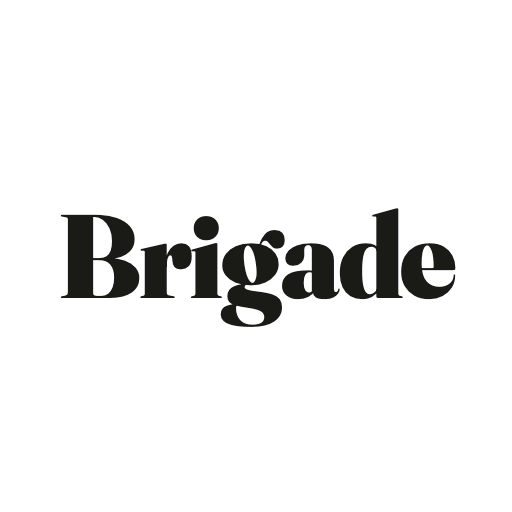
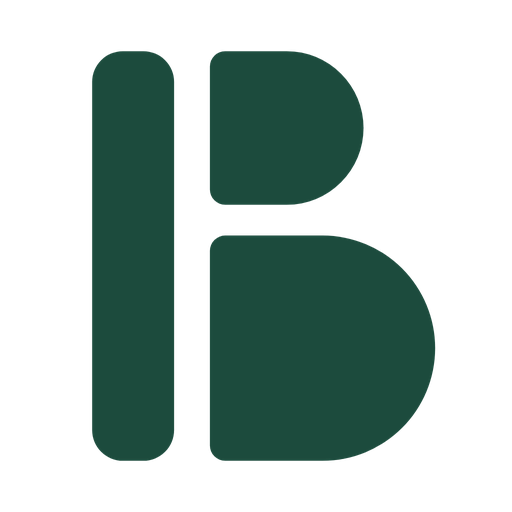
Add Brigade B-mark assets and wire them into nav chrome.
Replace the low-contrast wordmark favicon with the forest B mark, keep color variants under public/brand, and pair the icon with Fraunces text in headers.

diff --git a/apps/web/src/components/brand/brand-mark.tsx b/apps/web/src/components/brand/brand-mark.tsx
@@ -1,0 +1,79 @@
+import Image from 'next/image';
+import Link from 'next/link';
+import { cn } from '@/lib/utils';
+
+/** Icon-only B mark variants — colors match `tokens.css` brand palette. */
+export const BRAND_MARK = {
+  cream: '/brand/brigade-B-cream-transparent.png',
+  forest: '/brand/brigade-B-forest-transparent.png',
+  gold: '/brand/brigade-B-gold-transparent.png',
+  ink: '/brand/brigade-B-ink-transparent.png',
+  rust: '/brand/brigade-B-rust-transparent.png',
+  white: '/brand/brigade-B-white-transparent.png',
+} as const;
+
+export type BrandMarkVariant = keyof typeof BRAND_MARK;
+
+type BrandMarkProps = {
+  variant?: BrandMarkVariant;
+  /** CSS px; rendered square. */
+  size?: number;
+  className?: string;
+  priority?: boolean;
+};
+
+/** Stylized B mark. Pair with Fraunces “Brigade” text — this asset is icon-only. */
+export function BrandMark({
+  variant = 'forest',
+  size = 28,
+  className,
+  priority = false,
+}: BrandMarkProps) {
+  return (
+    <Image
+      src={BRAND_MARK[variant]}
+      alt=""
+      width={size}
+      height={size}
+      priority={priority}
+      className={cn('shrink-0 select-none', className)}
+    />
+  );
+}
+
+type BrandLinkProps = {
+  href?: string;
+  /** Light surfaces → forest; dark surfaces → cream or white. */
+  mark?: BrandMarkVariant;
+  markSize?: number;
+  className?: string;
+  /** Extra classes for the Fraunces wordmark span. */
+  wordmarkClassName?: string;
+  priority?: boolean;
+};
+
+/**
+ * Home link: B mark + Fraunces “Brigade”. Use in headers / auth chrome.
+ */
+export function BrandLink({
+  href = '/',
+  mark = 'forest',
+  markSize = 28,
+  className,
+  wordmarkClassName,
+  priority = false,
+}: BrandLinkProps) {
+  return (
+    <Link
+      href={href}
+      aria-label="Brigade home"
+      className={cn(
+        'inline-flex min-h-11 shrink-0 items-center gap-2 font-display font-black tracking-tight text-[var(--brand-ink)]',
+        className,
+      )}
+    >
+      <BrandMark variant={mark} size={markSize} priority={priority} />
+      <span className={cn('leading-none', wordmarkClassName)}>Brigade</span>
+    </Link>
+  );
+}

diff --git a/apps/web/src/app/onboarding/layout.tsx b/apps/web/src/app/onboarding/layout.tsx
@@ -1,6 +1,6 @@
-import Link from "next/link";
 import { Suspense } from "react";
 import { WelcomeBanner } from "@/components/auth/welcome-banner";
+import { BrandLink } from "@/components/brand/brand-mark";
 import { SoundToggle } from "@/components/onboarding/sound-toggle";
 
 /**
@@ -18,15 +18,11 @@ export default function OnboardingLayout({
   return (
     <div className="min-h-dvh bg-white text-ink">
       <header className="flex h-14 items-center justify-between border-b border-neutral-100 px-4">
-        <Link
-          href="/"
-          // -mx-2 px-2: the wordmark is 28px tall, and the only way out of the
-          // corridor should not be the one control on the screen too small to
-          // hit with a thumb. Padding gives it a 44px target without moving it.
-          className="font-display -mx-2 flex min-h-11 items-center px-2 text-xl font-black tracking-tight text-ink"
-        >
-          Brigade
-        </Link>
+        {/* -mx-2 px-2: keep a 44px thumb target without shifting the mark. */}
+        <BrandLink
+          markSize={24}
+          className="-mx-2 px-2 text-xl text-ink"
+        />
         <SoundToggle />
       </header>
       <Suspense fallback={null}>

diff --git a/apps/web/src/components/layout/marketing-header.tsx b/apps/web/src/components/layout/marketing-header.tsx
@@ -3,6 +3,7 @@
 import { useEffect, useState } from 'react';
 import Link from 'next/link';
 import { useAuth } from '@/components/auth/auth-provider';
+import { BrandLink } from '@/components/brand/brand-mark';
 import { AccountMenuItems } from '@/components/layout/app-nav';
 import { MobileTabBar } from '@/components/layout/mobile-tab-bar';
 import { useAppUser } from '@/components/layout/app-shell';
@@ -45,13 +46,11 @@ export function MarketingHeader() {
         className={cn('brigade-glass-nav', scrolled && 'brigade-glass-nav-scrolled')}
       >
         <div className="brigade-glass-nav-inner">
-          <Link
-            href="/"
-            aria-label="Brigade home"
-            className="font-display text-[22px] font-black tracking-[-0.02em] text-[var(--brand-ink)]"
-          >
-            Brigade
-          </Link>
+          <BrandLink
+            priority
+            markSize={26}
+            className="text-[22px] tracking-[-0.02em]"
+          />
 
           <div className="ml-auto flex items-center gap-1.5 sm:gap-2.5">
             <Link

diff --git a/apps/web/src/app/layout.tsx b/apps/web/src/app/layout.tsx
@@ -32,8 +32,33 @@ export const metadata: Metadata = {
   description:
     "Mentorship for chefs moving into private service. Learn from private chefs who have already done it.",
   icons: {
-    icon: [{ url: "/brigade-logo-512.png", sizes: "512x512", type: "image/png" }],
-    apple: [{ url: "/brigade-logo-512.png", sizes: "512x512", type: "image/png" }],
+    icon: [
+      {
+        url: "/brand/brigade-B-forest-transparent.png",
+        sizes: "512x512",
+        type: "image/png",
+      },
+    ],
+    apple: [
+      {
+        url: "/brand/brigade-B-forest-transparent.png",
+        sizes: "512x512",
+        type: "image/png",
+      },
+    ],
+  },
+  openGraph: {
+    title: "Brigade — Private Chef Mentorship",
+    description:
+      "Mentorship for chefs moving into private service. Learn from private chefs who have already done it.",
+    images: [
+      {
+        url: "/brand/brigade-B-forest-transparent.png",
+        width: 512,
+        height: 512,
+        alt: "Brigade",
+      },
+    ],
   },
 };
 

diff --git a/apps/web/src/app/login/page.tsx b/apps/web/src/app/login/page.tsx
@@ -1,19 +1,14 @@
 import { LoginForm } from "@/components/auth/login-form";
 import { LoginErrorBanner } from "@/components/auth/login-error-banner";
+import { BrandLink } from "@/components/brand/brand-mark";
 import { Card, CardDescription, CardHeader, CardTitle } from "@/components/ui/card";
-import Link from "next/link";
 import { Suspense } from "react";
 
 export default function LoginPage() {
   return (
     <div className="min-h-dvh bg-[var(--brand-paper-warm)] text-ink">
       <header className="flex h-12 items-center border-b border-[var(--brand-hairline)] bg-white/80 px-4 backdrop-blur-sm">
-        <Link
-          href="/"
-          className="font-display text-xl font-black tracking-tight text-[var(--brand-ink)]"
-        >
-          Brigade
-        </Link>
+        <BrandLink markSize={24} className="text-xl" />
       </header>
       <div className="mx-auto flex min-h-[calc(100dvh-3rem)] max-w-md items-center px-4 py-8">
         <Card className="w-full border-[var(--brand-hairline)] shadow-none">

diff --git a/apps/web/src/app/signup/page.tsx b/apps/web/src/app/signup/page.tsx
@@ -1,18 +1,13 @@
 import { SignupForm } from "@/components/auth/signup-form";
+import { BrandLink } from "@/components/brand/brand-mark";
 import { Card, CardDescription, CardHeader, CardTitle } from "@/components/ui/card";
-import Link from "next/link";
 import { Suspense } from "react";
 
 export default function SignupPage() {
   return (
     <div className="min-h-dvh bg-[var(--brand-paper-warm)] text-ink">
       <header className="flex h-12 items-center border-b border-[var(--brand-hairline)] bg-white/80 px-4 backdrop-blur-sm">
-        <Link
-          href="/"
-          className="font-display text-xl font-black tracking-tight text-[var(--brand-ink)]"
-        >
-          Brigade
-        </Link>
+        <BrandLink markSize={24} className="text-xl" />
       </header>
       <div className="mx-auto flex min-h-[calc(100dvh-3rem)] max-w-md items-center px-4 py-8">
         <Card className="w-full border-[var(--brand-hairline)] shadow-none">

diff --git a/apps/web/src/components/layout/app-nav.tsx b/apps/web/src/components/layout/app-nav.tsx
@@ -14,6 +14,7 @@ import {
   User,
 } from 'lucide-react';
 import { useAuth } from '@/components/auth/auth-provider';
+import { BrandLink } from '@/components/brand/brand-mark';
 import { Avatar, AvatarFallback, AvatarImage } from '@/components/ui/avatar';
 import { Button } from '@/components/ui/button';
 import {
@@ -132,12 +133,11 @@ export function AppNav({ user }: AppNavProps) {
       )}
     >
       <div className="mx-auto flex h-12 max-w-[1128px] items-center gap-2 px-3 sm:gap-3 sm:px-4">
-        <Link
+        <BrandLink
           href="/mentors"
-          className="flex min-h-11 shrink-0 items-center font-display text-xl font-black tracking-tight text-ink"
-        >
-          Brigade
-        </Link>
+          markSize={24}
+          className="text-xl text-ink"
+        />
 
         <div className="hidden min-w-0 flex-1 sm:block sm:max-w-[220px]">
           <div className="relative">

diff --git a/apps/web/src/components/layout/public-nav.tsx b/apps/web/src/components/layout/public-nav.tsx
@@ -1,25 +1,23 @@
 'use client';
 
 import Link from 'next/link';
+import { BrandLink } from '@/components/brand/brand-mark';
 
 type PublicNavProps = {
   showAuth?: boolean;
 };
 
 /**
- * Marketplace header — white bar, wordmark, clear next actions.
+ * Marketplace header — white bar, mark + wordmark, clear next actions.
  */
 export function PublicNav({ showAuth = true }: PublicNavProps) {
   return (
     <header className="mk-header w-full">
       <div className="mx-auto flex h-full max-w-[1320px] items-center gap-4 px-5 md:px-8">
-        <Link
-          href="/"
-          aria-label="Brigade home"
+        <BrandLink
+          markSize={26}
           className="text-[22px] font-bold tracking-[-0.02em] text-[var(--mk-text)]"
-        >
-          Brigade
-        </Link>
+        />
 
         {showAuth && (
           <div className="ml-auto flex items-center gap-2 md:gap-3">

diff --git a/apps/web/src/app/book/page.tsx b/apps/web/src/app/book/page.tsx
@@ -1,9 +1,9 @@
 "use client";
 
 import { useState } from "react";
-import Link from "next/link";
 import { useSearchParams } from "next/navigation";
 import { Suspense } from "react";
+import { BrandLink } from "@/components/brand/brand-mark";
 import { BOOK_A_CALL } from "@/lib/book-a-call";
 import { formatMoney } from "@/lib/mentorship/pricing";
 
@@ -34,9 +34,7 @@ function BookCallInner() {
   return (
     <div className="min-h-dvh bg-[var(--brand-paper-warm)] text-[var(--brand-ink)]">
       <header className="flex h-14 items-center border-b border-black/8 px-5">
-        <Link href="/" className="font-display text-xl font-black tracking-tight">
-          Brigade
-        </Link>
+        <BrandLink markSize={24} className="text-xl" />
       </header>
 
       <main className="mx-auto max-w-lg px-5 py-16 text-center">

diff --git a/apps/web/src/app/book/thanks/page.tsx b/apps/web/src/app/book/thanks/page.tsx
@@ -1,12 +1,11 @@
 import Link from "next/link";
+import { BrandLink } from "@/components/brand/brand-mark";
 
 export default function BookThanksPage() {
   return (
     <div className="min-h-dvh bg-[var(--brand-paper-warm)] text-[var(--brand-ink)]">
       <header className="flex h-14 items-center border-b border-black/8 px-5">
-        <Link href="/" className="font-display text-xl font-black tracking-tight">
-          Brigade
-        </Link>
+        <BrandLink markSize={24} className="text-xl" />
       </header>
       <main className="mx-auto max-w-lg px-5 py-20 text-center">
         <h1 className="text-[36px] font-semibold leading-tight">You&apos;re booked in</h1>
